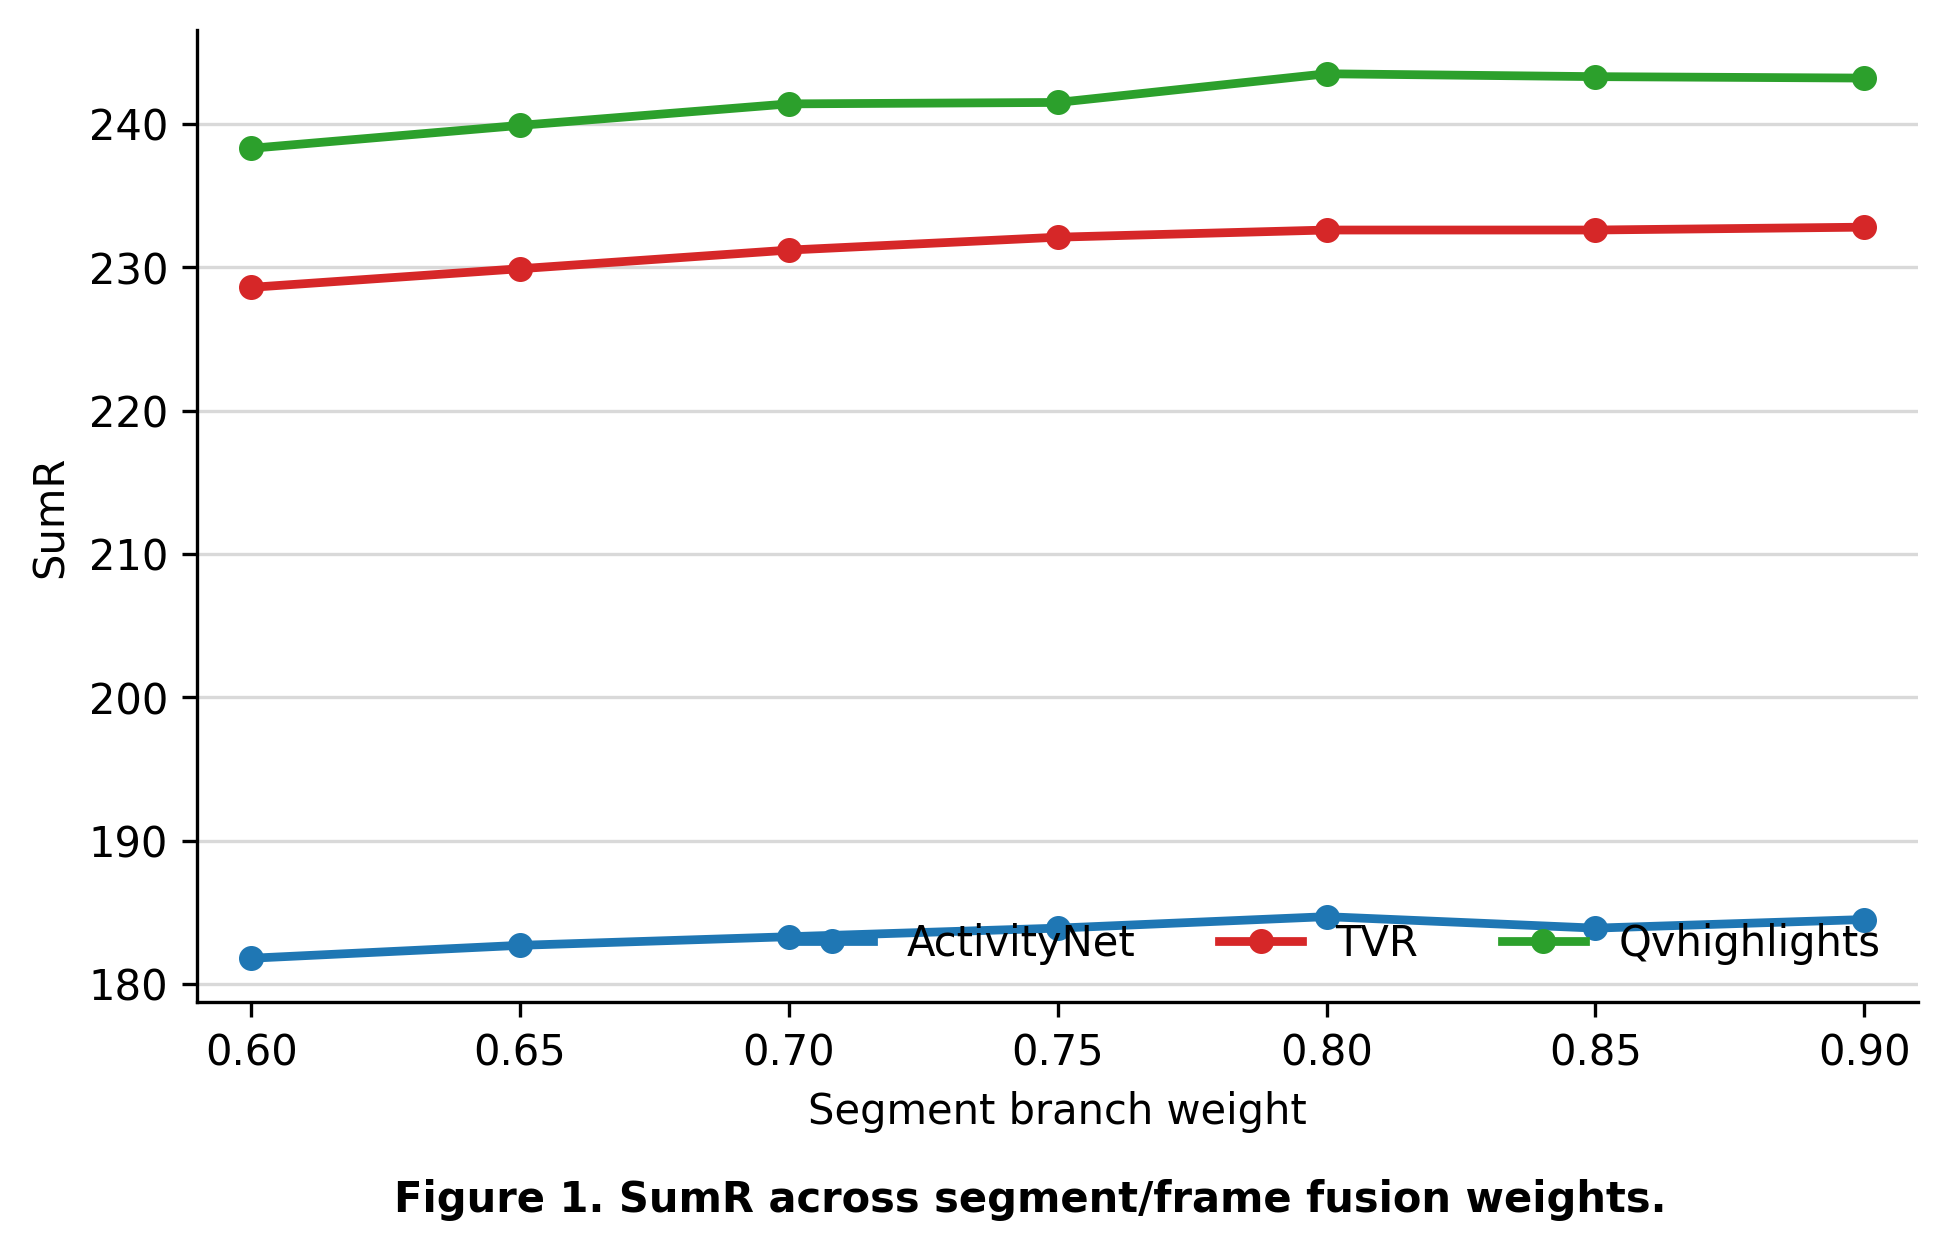
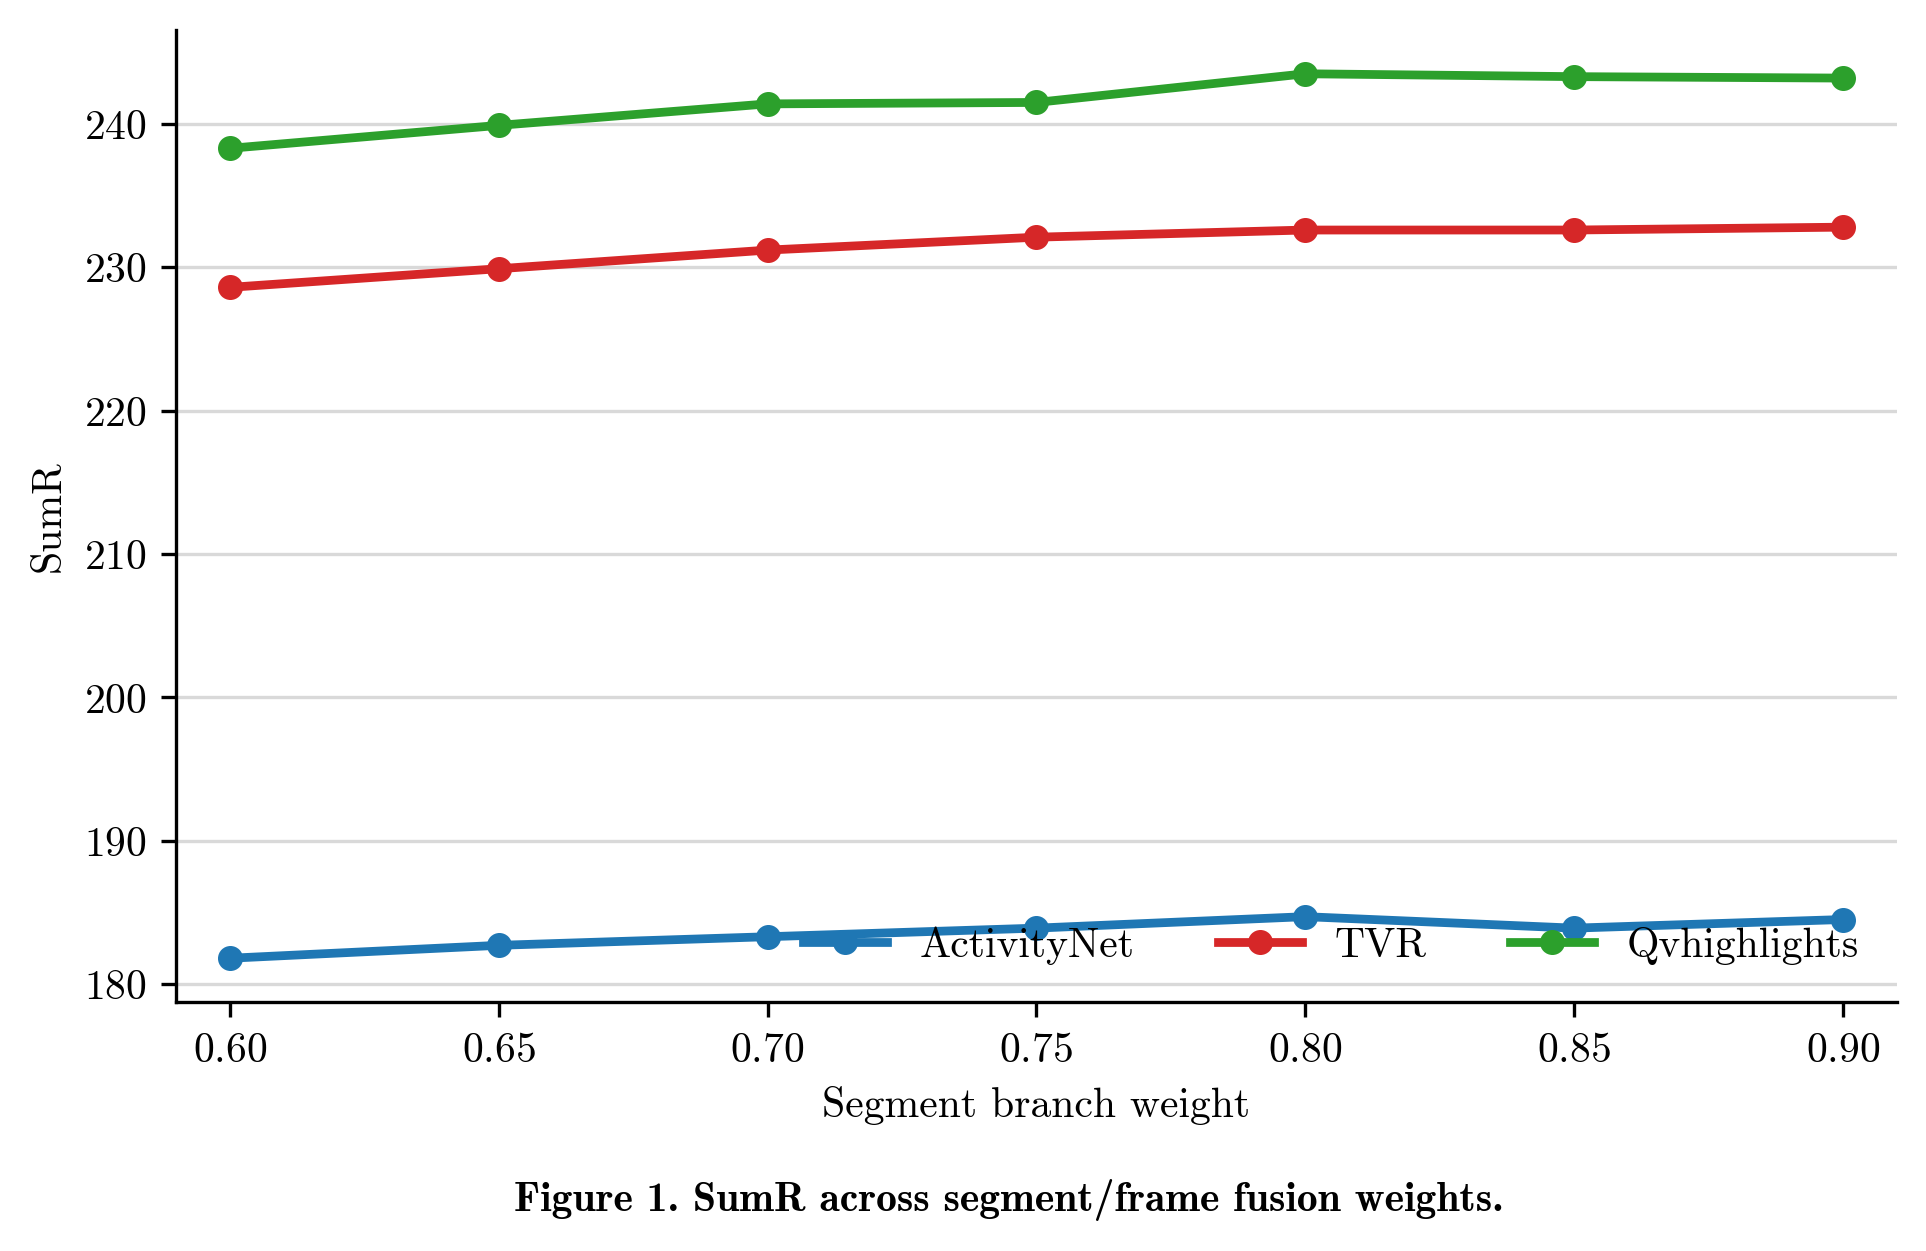
Match fusion figure typography to tables

diff --git a/plot_fusion_sweep.py b/plot_fusion_sweep.py
@@ -7,6 +7,13 @@ from pathlib import Path
 import matplotlib
 
 matplotlib.use("Agg")
+matplotlib.rcParams.update(
+    {
+        "font.family": "cmr10",
+        "mathtext.fontset": "cm",
+        "axes.formatter.use_mathtext": True,
+    }
+)
 import matplotlib.pyplot as plt
 
 
@@ -52,7 +59,7 @@ def main():
         ha="center",
         va="bottom",
         fontsize=10,
-        fontweight="bold",
+        fontfamily="cmb10",
     )
     fig.savefig(args.output, dpi=300, bbox_inches="tight")
 
